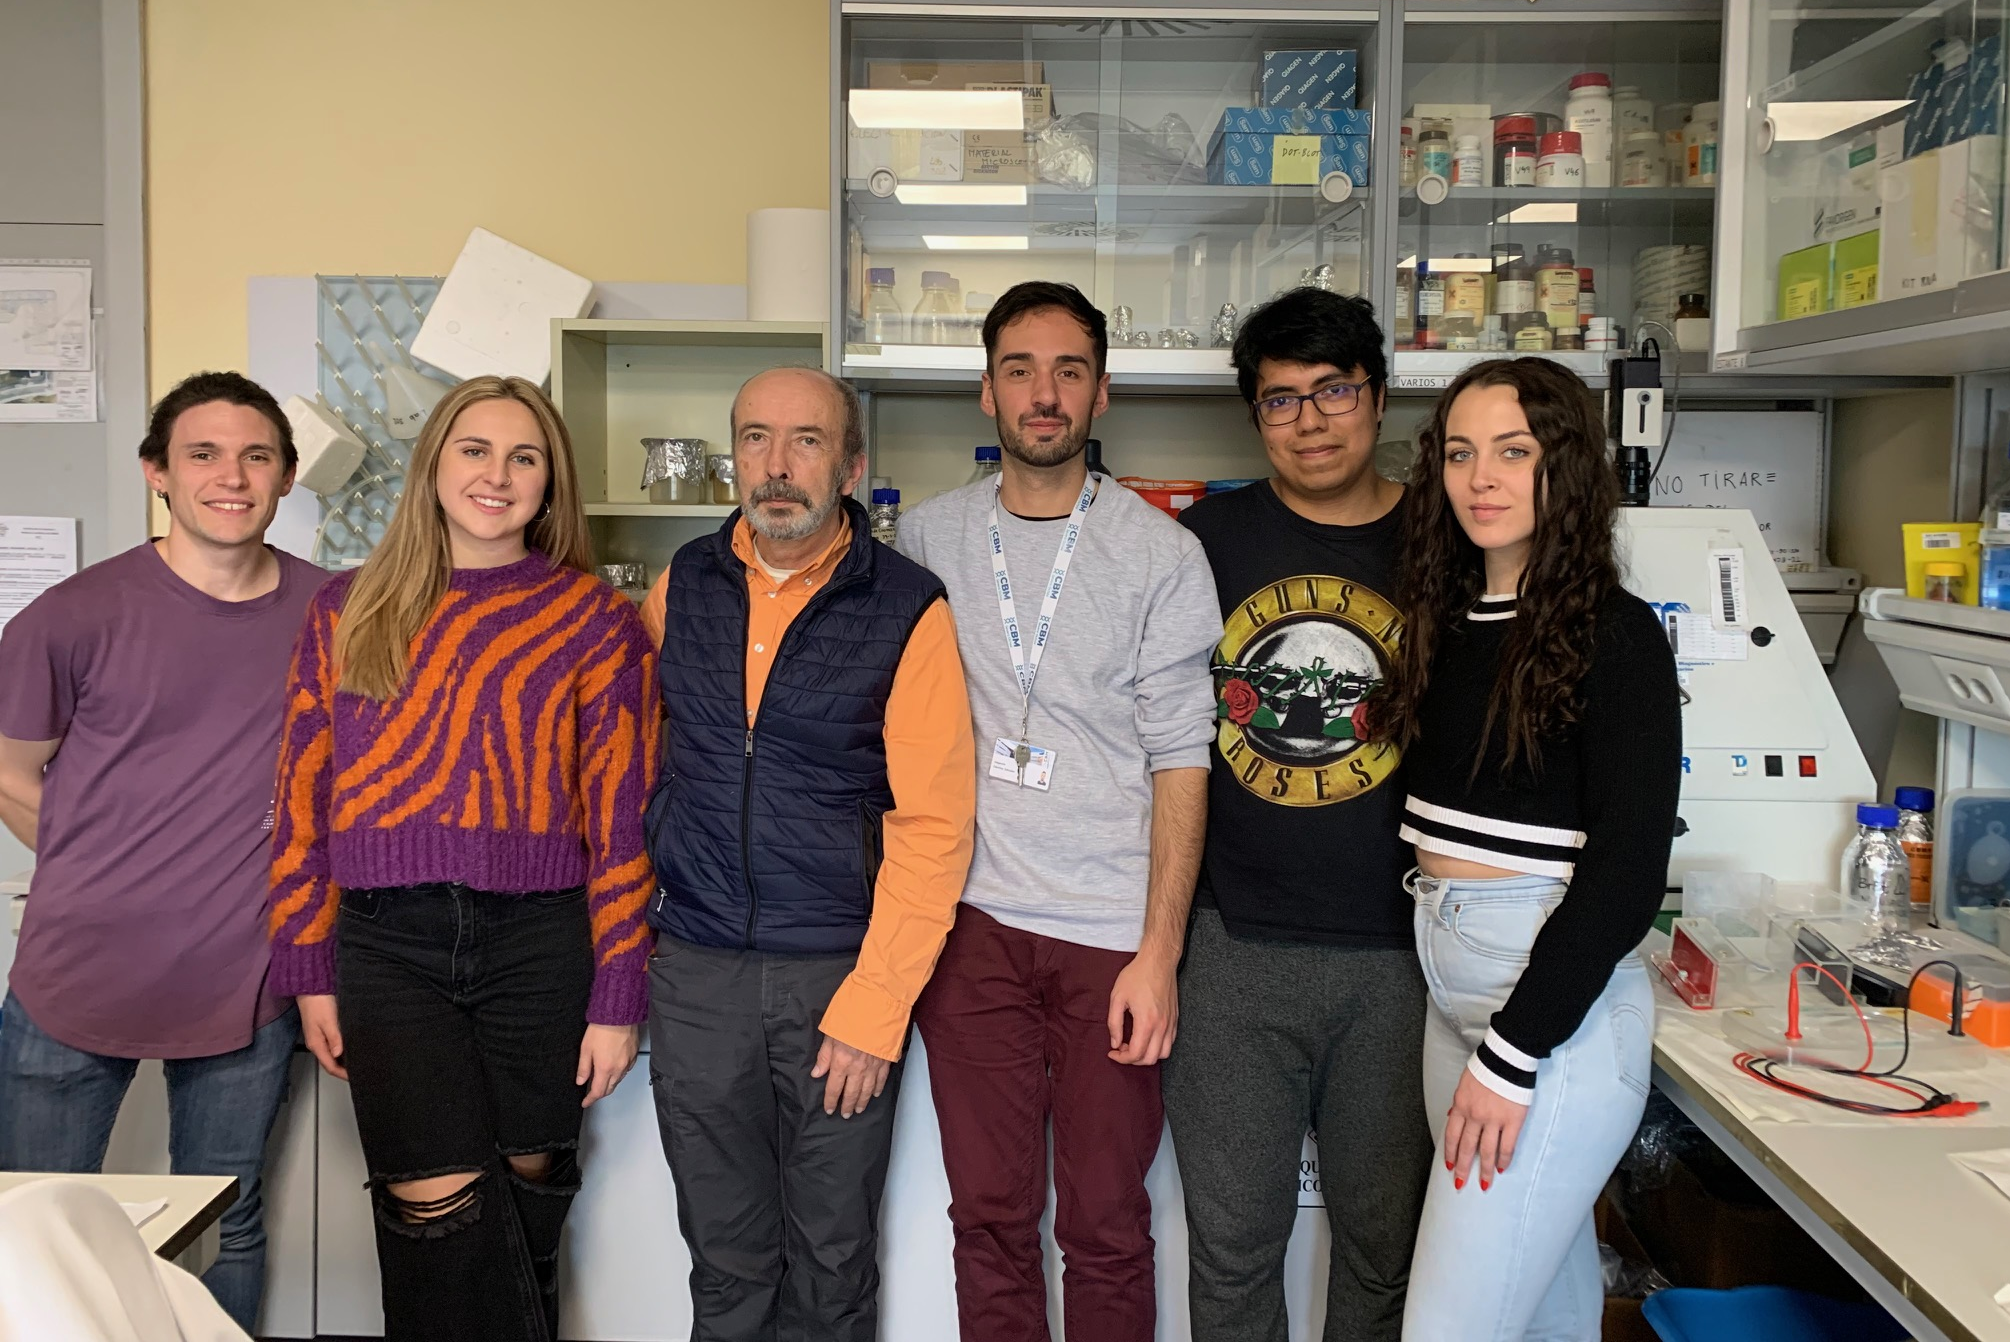
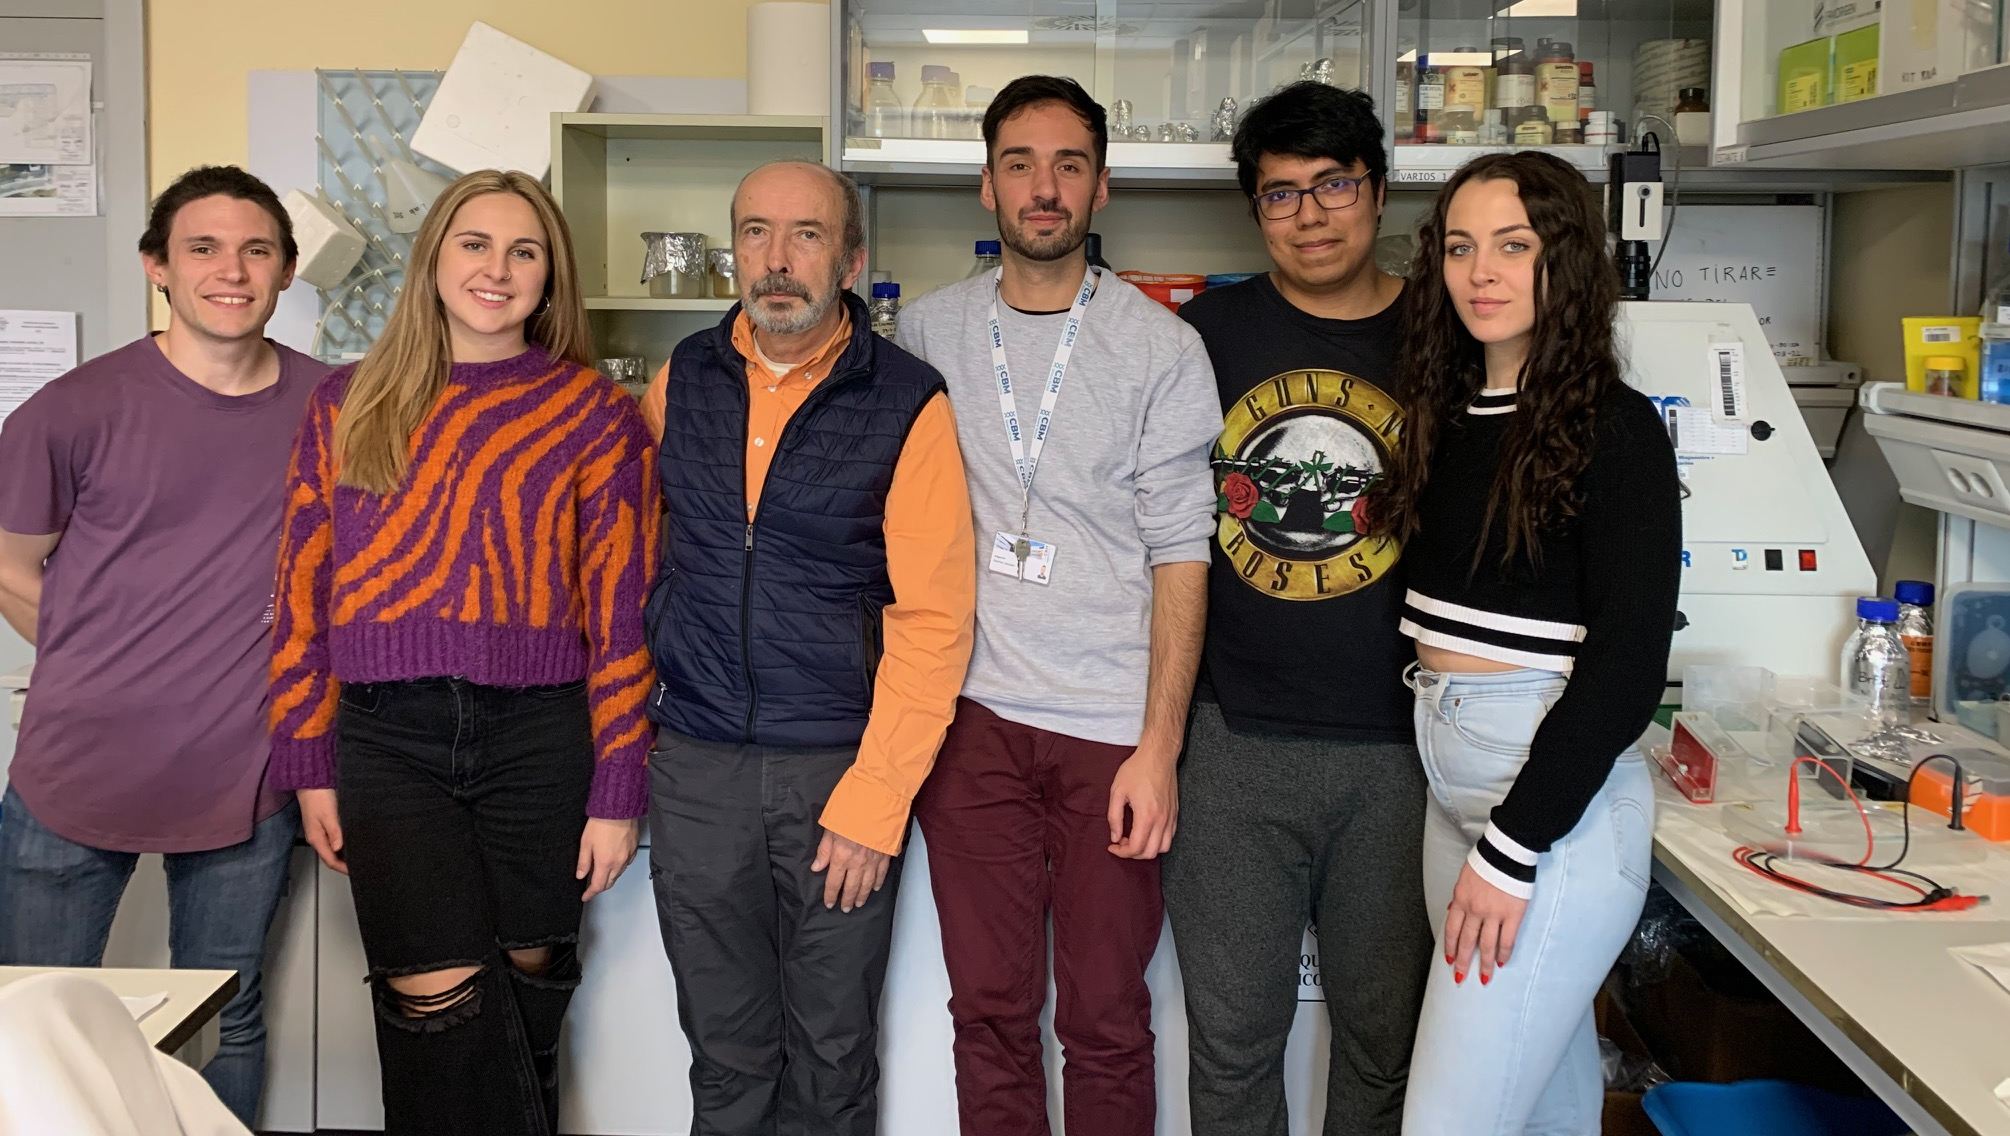
Update `home.css` styles and replace images in team carousel layout
Adjusted `#team-frontshow` height and added inset styles for `.carousel-slide-img`. Replaced outdated team carousel images with updated versions.

diff --git a/home/static/home/styles/home.css b/home/static/home/styles/home.css
@@ -571,6 +571,7 @@ bsky-embed {
 /* ================================================================== */
 @media only screen and (min-width: 1025px) {
   #team-frontshow {
+    height: 600px;
   }
 
   #team-frontshow-text {
@@ -591,6 +592,7 @@ bsky-embed {
 
   .carousel-slide-img img {
     object-position: center 20%;
+    inset(0 0 40% 0);
   }
 
   #leish-card-container {
